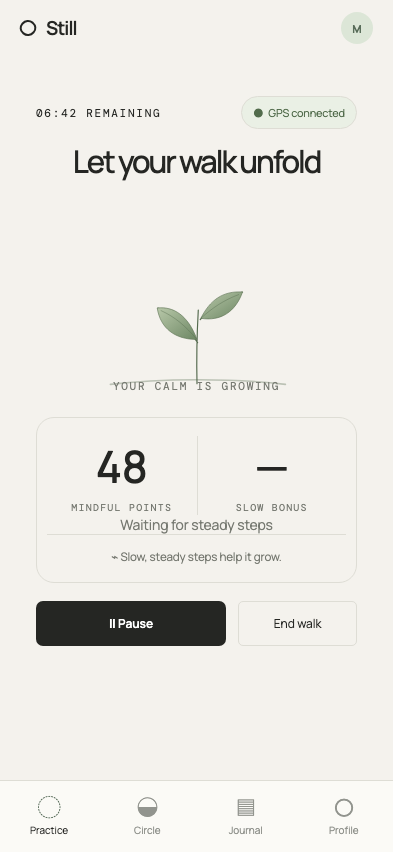
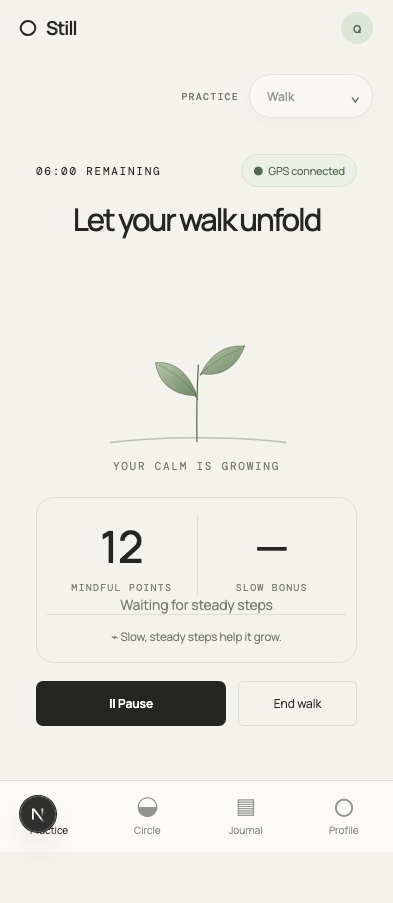
Refine practice timer and selector

diff --git a/tests/unit/app/ui-page-layout-sw.test.tsx b/tests/unit/app/ui-page-layout-sw.test.tsx
@@ -27,7 +27,7 @@ describe('home shell', () => {
     await user.click(screen.getByRole('button', { name: 'Solo' })); expect(screen.getByRole('button', { name: 'Solo' })).toHaveAttribute('aria-pressed', 'true')
     await user.click(screen.getByRole('button', { name: /timer sign in/i })); await user.click(screen.getByRole('button', { name: 'Close sign in' }))
     await user.click(screen.getByText('Timer saved'))
-    await user.click(screen.getByRole('button', { name: 'Walk' })); await user.click(screen.getByText('Walk saved')); await user.click(screen.getByText('Walk sign in')); await user.click(screen.getByRole('button', { name: 'Close sign in' })); await user.click(screen.getByRole('button', { name: 'Sit' }))
+    await user.selectOptions(screen.getByRole('combobox', { name: 'Practice' }), 'walk'); await user.click(screen.getByText('Walk saved')); await user.click(screen.getByText('Walk sign in')); await user.click(screen.getByRole('button', { name: 'Close sign in' })); await user.selectOptions(screen.getByRole('combobox', { name: 'Practice' }), 'sit')
     await user.click(screen.getByRole('button', { name: 'Together' })); await user.click(screen.getByText('Shared saved'))
     await user.click(screen.getByRole('button', { name: /circle/i })); expect(screen.getByText('Circle sign in')).toBeInTheDocument(); await user.click(screen.getByText('Circle sign in')); await user.click(screen.getByRole('button', { name: 'Close sign in' }))
     await user.click(screen.getByRole('button', { name: /journal/i })); expect(screen.getByText('Journal sign in')).toBeInTheDocument(); await user.click(screen.getByText('Journal sign in')); await user.click(screen.getByRole('button', { name: 'Close sign in' }))
@@ -69,7 +69,7 @@ describe('home shell', () => {
     render(<Home />); await waitFor(() => expect(screen.getAllByRole('button', { name: 'Solo' }).length).toBeGreaterThan(0))
   })
   it('routes walking activity state', async () => {
-    vi.stubGlobal('fetch', vi.fn().mockResolvedValue(response({}, false))); const user = userEvent.setup(); render(<Home />); await waitFor(() => expect(screen.getByRole('button', { name: 'Walk' })).toBeInTheDocument()); await user.click(screen.getByRole('button', { name: 'Walk' })); await user.click(screen.getByText('Mock walk')); expect(screen.queryByRole('button', { name: 'Sit' })).not.toBeInTheDocument(); await user.click(screen.getByText('Stop walk')); expect(screen.getByRole('button', { name: 'Sit' })).toBeInTheDocument(); await user.click(screen.getByRole('button', { name: 'Sit' })); await user.click(screen.getByText('Mock timer')); await user.click(screen.getByText('Stop timer'))
+    vi.stubGlobal('fetch', vi.fn().mockResolvedValue(response({}, false))); const user = userEvent.setup(); render(<Home />); const selector = await screen.findByRole('combobox', { name: 'Practice' }); expect(selector).toHaveValue('sit'); await user.selectOptions(selector, 'walk'); expect(selector).toHaveValue('walk'); await user.click(screen.getByText('Mock walk')); expect(selector).toBeDisabled(); expect(selector).toHaveValue('walk'); await user.selectOptions(selector, 'sit'); expect(selector).toHaveValue('walk'); await user.click(screen.getByText('Stop walk')); expect(selector).toBeEnabled(); await user.selectOptions(selector, 'sit'); await user.click(screen.getByText('Mock timer')); expect(selector).toBeDisabled(); expect(selector).toHaveValue('sit'); await user.click(screen.getByText('Stop timer')); expect(selector).toBeEnabled()
   })
 })
 

diff --git a/src/components/timer-dial.css b/src/components/timer-dial.css
@@ -1,12 +1,12 @@
-.timer-dial { width: min(74vw, 280px); aspect-ratio: 1; margin: 14px auto 52px; position: relative; touch-action: auto; }.timer-dial.is-interactive { touch-action: none; }
+.timer-dial { width: min(76vw, 300px); aspect-ratio: 1; margin: 18px auto 58px; position: relative; touch-action: auto; }.timer-dial.is-interactive { touch-action: none; }
 .timer-dial svg { display: block; width: 100%; height: 100%; transform: rotate(0deg); }
-.timer-dial-track, .timer-dial-progress { fill: none; stroke-width: 1.5; }
-.timer-dial-track { stroke: #dfe2da; }.timer-dial-progress { stroke: var(--sage-dark); stroke-linecap: round; transition: stroke-dashoffset .3s linear; transform: rotate(-90deg); transform-origin: 140px 140px; }
+.timer-dial-track, .timer-dial-progress { fill: none; stroke-width: 8; }
+.timer-dial-track { stroke: #d9ded4; }.timer-dial-progress { stroke: var(--sage-dark); stroke-linecap: round; transition: stroke-dashoffset .3s linear; transform: rotate(-90deg); transform-origin: 140px 140px; }
 .timer-dial-thumb { fill: var(--sage-dark); stroke: var(--surface); stroke-width: 3; }
-.timer-dial-center { position: absolute; inset: 0; display: flex; align-items: center; justify-content: center; flex-direction: column; pointer-events: none; }.timer-dial-center strong { font-size: 48px; letter-spacing: -.08em; line-height: 1; font-weight: 500; }.timer-dial-center span { color: var(--muted); font: 10px 'DM Mono', monospace; text-transform: uppercase; letter-spacing: .1em; margin-top: 10px; }
+.timer-dial-center { position: absolute; inset: 0; display: flex; align-items: center; justify-content: center; flex-direction: column; pointer-events: none; }.timer-dial-center strong { font-size: clamp(48px, 9vw, 62px); letter-spacing: -.075em; line-height: 1; font-weight: 500; }.timer-dial-center span { color: var(--muted); font: 10px 'DM Mono', monospace; text-transform: uppercase; letter-spacing: .16em; margin-top: 12px; }
 .timer-dial-duration { position: absolute; left: 50%; bottom: -38px; transform: translateX(-50%); display: flex; align-items: center; gap: 5px; color: var(--muted); font-size: 11px; }.timer-dial-duration input { width: 43px; border: 0; border-bottom: 1px solid var(--line); background: transparent; color: var(--ink); font: 500 16px 'DM Mono', monospace; text-align: center; }.timer-dial-duration input::-webkit-inner-spin-button { appearance: none; }
 .timer-dial-slider { position: absolute; inset: 0; border-radius: 50%; outline: none; pointer-events: none; }.timer-dial-slider:focus-visible { outline: 3px solid rgba(100,130,105,.45); outline-offset: 6px; }
-@media (max-width: 600px) { .timer-dial { width: clamp(180px, min(58vw, 28svh), 230px); } }
+@media (max-width: 600px) { .timer-dial { width: clamp(205px, min(68vw, 32svh), 260px); margin-top: 14px; margin-bottom: 52px; } }
 
-.timer-dial-progress-second { stroke: var(--sage); stroke-width: 2.5; }
+.timer-dial-progress-second { stroke: var(--sage); stroke-width: 5; }
 .timer-dial-center small { color: var(--muted); font: 9px 'DM Mono', monospace; margin-top: 6px; }

diff --git a/src/app/globals.css b/src/app/globals.css
@@ -4,9 +4,9 @@
 * { box-sizing: border-box; }
 html, body { margin: 0; min-height: 100%; background: var(--paper); color: var(--ink); }
 body { font-family: Manrope, -apple-system, BlinkMacSystemFont, sans-serif; font-size: 14px; letter-spacing: -.01em; }
-button, input, textarea { font: inherit; }
+button, input, select, textarea { font: inherit; }
 button { color: inherit; border: 0; cursor: pointer; }
-button:focus-visible, input:focus-visible, textarea:focus-visible { outline: 3px solid rgba(100,130,105,.45); outline-offset: 3px; }
+button:focus-visible, input:focus-visible, select:focus-visible, textarea:focus-visible { outline: 3px solid rgba(100,130,105,.45); outline-offset: 3px; }
 .app-shell { min-height: 100svh; padding-bottom: calc(88px + env(safe-area-inset-bottom, 0px)); }
 .topbar { height: 76px; display: flex; align-items: center; justify-content: space-between; max-width: 1160px; margin: auto; padding: 0 32px; }
 .brand { display: inline-flex; align-items: center; gap: 10px; font-size: 19px; font-weight: 600; letter-spacing: -.05em; background: transparent; padding: 4px 0; }
@@ -63,6 +63,14 @@ h2 { font-size: 19px; line-height: 1.2; letter-spacing: -.04em; font-weight: 600
 .bottom-nav { height: calc(72px + env(safe-area-inset-bottom)); padding-bottom: env(safe-area-inset-bottom); }
 .auth-modal input, .comment-form input { font-size: 16px; }
 .practice-mode { display:flex; gap:7px; margin: 0 auto 12px; max-width: 760px; }.practice-mode button { min-height:44px; flex:1; border:1px solid var(--line); border-radius:7px; background:transparent; color:var(--muted); }.practice-mode button.selected { background:var(--ink); color:#fff; border-color:var(--ink); }
+.practice-kind { display:flex; align-items:center; justify-content:flex-end; gap:10px; margin:0 auto 18px; max-width:760px; }
+.practice-kind label { color:var(--muted); font:500 10px 'DM Mono', monospace; letter-spacing:.12em; text-transform:uppercase; }
+.practice-select-wrap { position:relative; }
+.practice-select-wrap::after { content:'⌄'; position:absolute; right:13px; top:50%; transform:translateY(-56%); color:var(--sage-dark); pointer-events:none; font-size:16px; }
+.practice-kind select { min-width:132px; min-height:44px; appearance:none; border:1px solid var(--line); border-radius:999px; background:var(--surface); color:var(--ink); padding:0 40px 0 17px; font-size:12px; font-weight:600; cursor:pointer; box-shadow:0 5px 18px rgba(58,62,52,.035); }
+.practice-kind select:disabled { color:var(--muted); cursor:not-allowed; opacity:.72; }
+.practice-stats { max-width:760px; margin:14px auto 0; color:var(--muted); font-size:11px; text-align:center; line-height:1.5; }
+@media (max-width:600px) { .practice-kind { margin-bottom:14px; } .practice-kind select { min-width:124px; } .practice-stats { margin:14px auto 72px; } }
 
 .reset-page { min-height: 100svh; display: grid; place-items: center; padding: 24px; }
 .reset-page > .auth-modal { width: min(100%, 440px); }

diff --git a/src/components/PracticeTimer.tsx b/src/components/PracticeTimer.tsx
@@ -163,9 +163,13 @@ export default function PracticeTimer({ user, onSessionSaved, onSignIn, onActive
   const setMood = (key: 'beforeMood' | 'duringMood' | 'afterMood', value: Mood) => setDraft(current => ({ ...current, [key]: value }))
 
   return <section className="practice-view" aria-labelledby="practice-heading">
-    <h1 id="practice-heading" className="timer-page-heading">{timeOfDay}</h1>
+    <div className="sit-heading">
+      <div className="eyebrow">Sitting meditation</div>
+      <h1 id="practice-heading" className="timer-page-heading">{timeOfDay}</h1>
+      <p>A little quieter. A little more present.</p>
+    </div>
     <div className={`timer-card practice-timer-card ${active ? 'is-running' : ''} ${saved ? 'is-complete' : ''}`}>
-      <div className="timer-label">Timer</div>
+      <div className="timer-label">{active?.paused ? 'Take your time' : active ? 'Stay with the breath' : saved ? 'Practice complete' : 'Settle in'}</div>
       <TimerDial durationMinutes={active ? Math.round(active.plannedSeconds / 60) : minutes} remainingSeconds={displayRemaining} running={Boolean(active)} disabled={Boolean(active || saved)} onDurationChange={active || saved ? undefined : setMinutes} phaseLabel={saved ? 'well done' : active?.paused ? 'paused' : active ? 'remaining' : 'minutes'} />
       {!active && !saved && <button className="sound-preview" type="button" onClick={() => { unlockBowlAudio(); playBowl() }}>Preview sound</button>}
       {active && <div className="timer-session-actions"><button className="secondary-button" onClick={active.paused ? resume : pause} disabled={busy}>{active.paused ? 'Resume' : 'Pause'}</button><button className="text-button" onClick={() => void cancel()} disabled={busy}>End session early</button></div>}

diff --git a/src/app/page.tsx b/src/app/page.tsx
@@ -140,24 +140,20 @@ export default function Home() {
           />
         </div>
         <div hidden={tab !== "practice" || mode !== "solo"}>
-          {!soloActive && (
-            <div className="practice-mode practice-kind">
-              <button
-                className={soloKind === "sit" ? "selected" : ""}
-                aria-pressed={soloKind === "sit"}
-                onClick={() => setSoloKind("sit")}
+          <div className="practice-kind">
+            <label htmlFor="practice-kind">Practice</label>
+            <div className="practice-select-wrap">
+              <select
+                id="practice-kind"
+                value={soloKind}
+                disabled={soloActive || sharedActive}
+                onChange={(event) => setSoloKind(event.target.value as "sit" | "walk")}
               >
-                Sit
-              </button>
-              <button
-                className={soloKind === "walk" ? "selected" : ""}
-                aria-pressed={soloKind === "walk"}
-                onClick={() => setSoloKind("walk")}
-              >
-                Walk
-              </button>
+                <option value="sit">Sit</option>
+                <option value="walk">Walk</option>
+              </select>
             </div>
-          )}
+          </div>
           <div hidden={soloKind !== "sit"}>
             <PracticeTimer
               user={user}

diff --git a/src/components/practice-timer.css b/src/components/practice-timer.css
@@ -1,5 +1,9 @@
 .practice-timer-card { position: relative; }
-.timer-page-heading { margin: 0 0 28px; font-size: clamp(30px, 5vw, 44px); }
+.sit-heading { margin: 0 0 24px; }
+.timer-page-heading { margin: 8px 0 0; font-size: clamp(30px, 5vw, 44px); }
+.sit-heading > p { margin-top: 9px; color: var(--muted); font-size: 14px; letter-spacing: .01em; }
+.practice-timer-card { padding: 28px 24px 30px; }
+.practice-timer-card .timer-label { color: var(--sage-dark); }
 .practice-timer-card .primary-button { margin-top: 5px; }
 .practice-timer-card .text-button:disabled { opacity: .55; cursor: wait; }
 .timer-session-actions { display: flex; flex-direction: column; align-items: center; gap: 8px; margin-top: 4px; }
@@ -11,3 +15,8 @@
 .sound-preview { background: transparent; color: var(--sage-dark); font-size: 11px; padding: 4px 0; margin: 0 0 18px; text-decoration: underline; text-underline-offset: 3px; }
 .sound-preview:disabled { opacity: .45; cursor: default; }
 .sr-only { position: absolute; width: 1px; height: 1px; padding: 0; margin: -1px; overflow: hidden; clip: rect(0, 0, 0, 0); white-space: nowrap; border: 0; }
+@media (max-width: 600px) {
+  .sit-heading { margin-bottom: 17px; }
+  .sit-heading > p { font-size: 12px; }
+  .practice-timer-card { padding: 20px 12px 22px; }
+}

diff --git a/tests/unit/components/restored-features.test.tsx b/tests/unit/components/restored-features.test.tsx
@@ -10,7 +10,8 @@ afterEach(() => { vi.restoreAllMocks(); vi.unstubAllGlobals(); window.history.re
 
 it('selects dates, replaces reflections, handles an empty day and keeps lifetime totals', async () => {
   const today = new Intl.DateTimeFormat('en-CA', { timeZone: 'UTC' }).format(new Date())
-  const day = `${today.slice(0, 7)}-01`, empty = `${today.slice(0, 7)}-${today.endsWith('-02') ? '03' : '02'}`
+  const availableDays = ['01', '02', '03'].filter(value => value !== today.slice(8, 10))
+  const day = `${today.slice(0, 7)}-${availableDays[0]}`, empty = `${today.slice(0, 7)}-${availableDays[1]}`
   const fetcher = vi.fn(async (url: string) => {
     if (url === '/api/auth/me') return response({ user: { timezone: 'UTC' } })
     const date = url.endsWith('today') ? today : url.split('=')[1]

diff --git a/src/components/walking-meditation.css b/src/components/walking-meditation.css
@@ -68,7 +68,7 @@
 }
 .walking-active .walking-plant {
   width: min(64vw, 250px);
-  margin-block: -44px -34px;
+  margin-block: -44px -20px;
 }
 .plant-ground,
 .plant-stem,
@@ -116,7 +116,7 @@
   color: #85645c;
 }
 .walking-growth-copy {
-  margin-top: -10px;
+  margin-top: 8px;
   color: var(--muted);
 }
 .walking-score-card {
